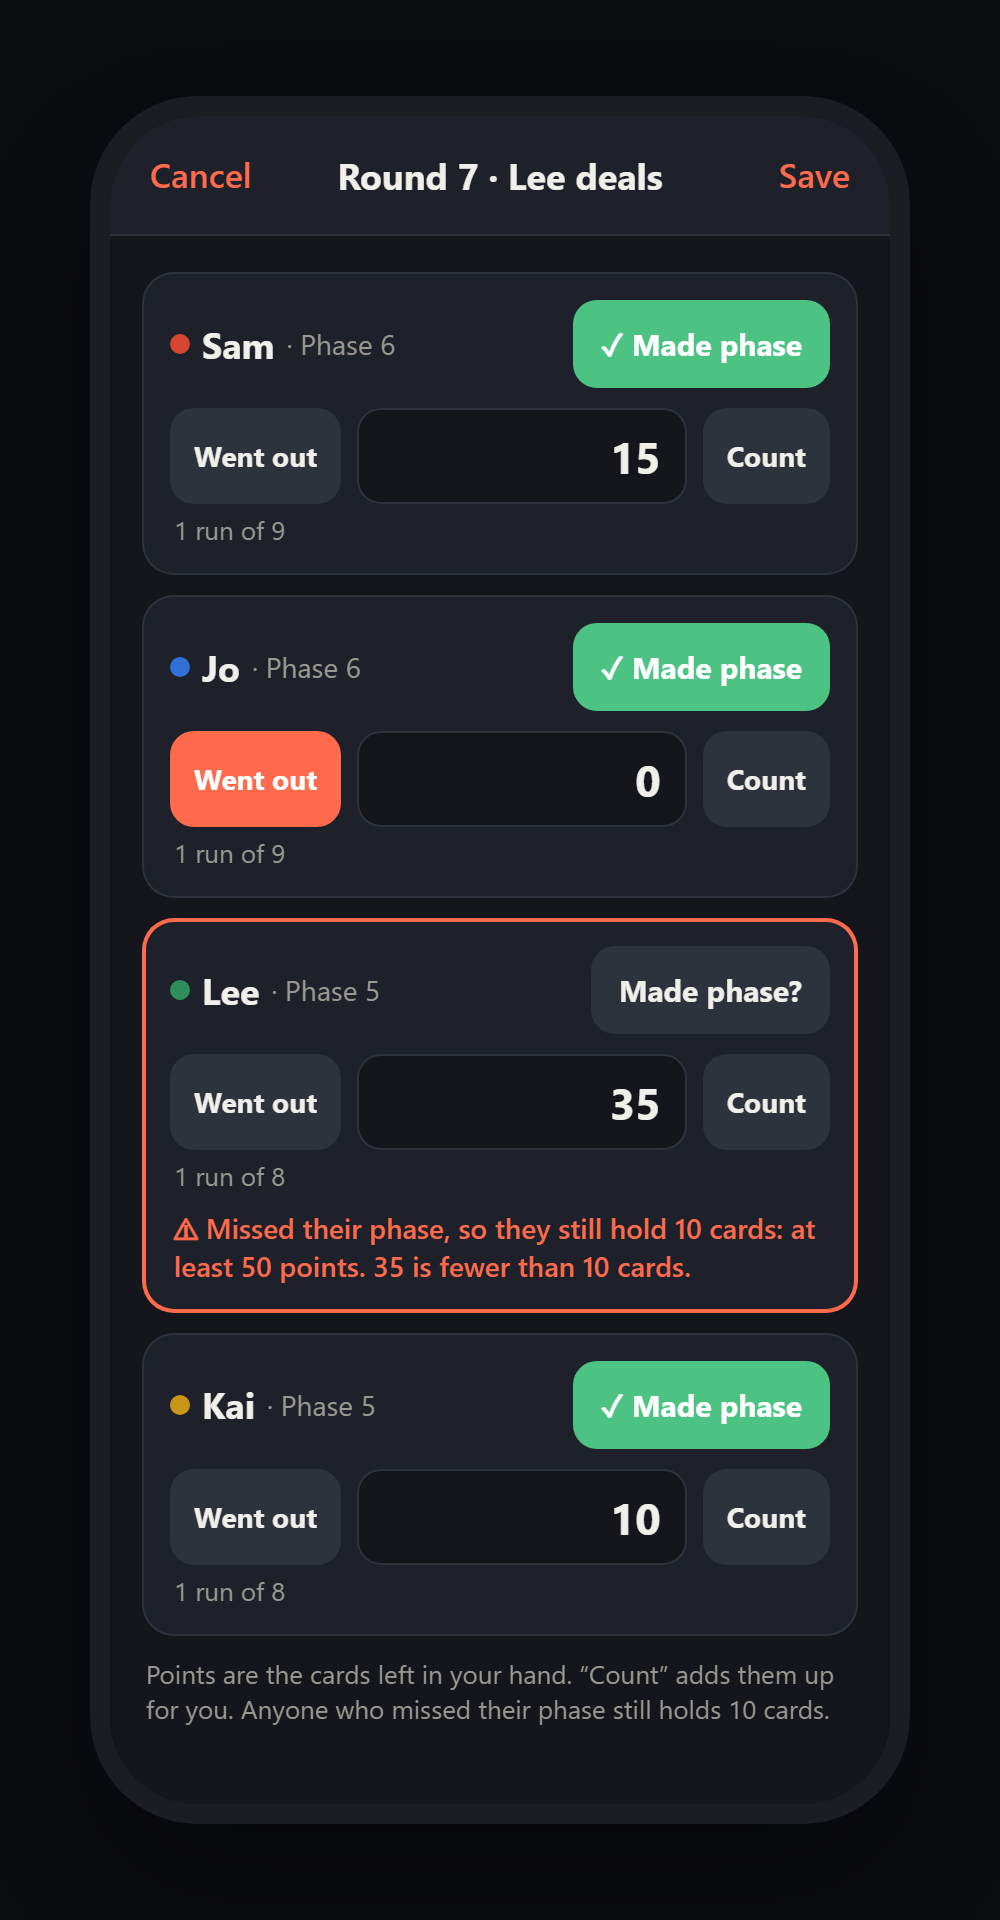
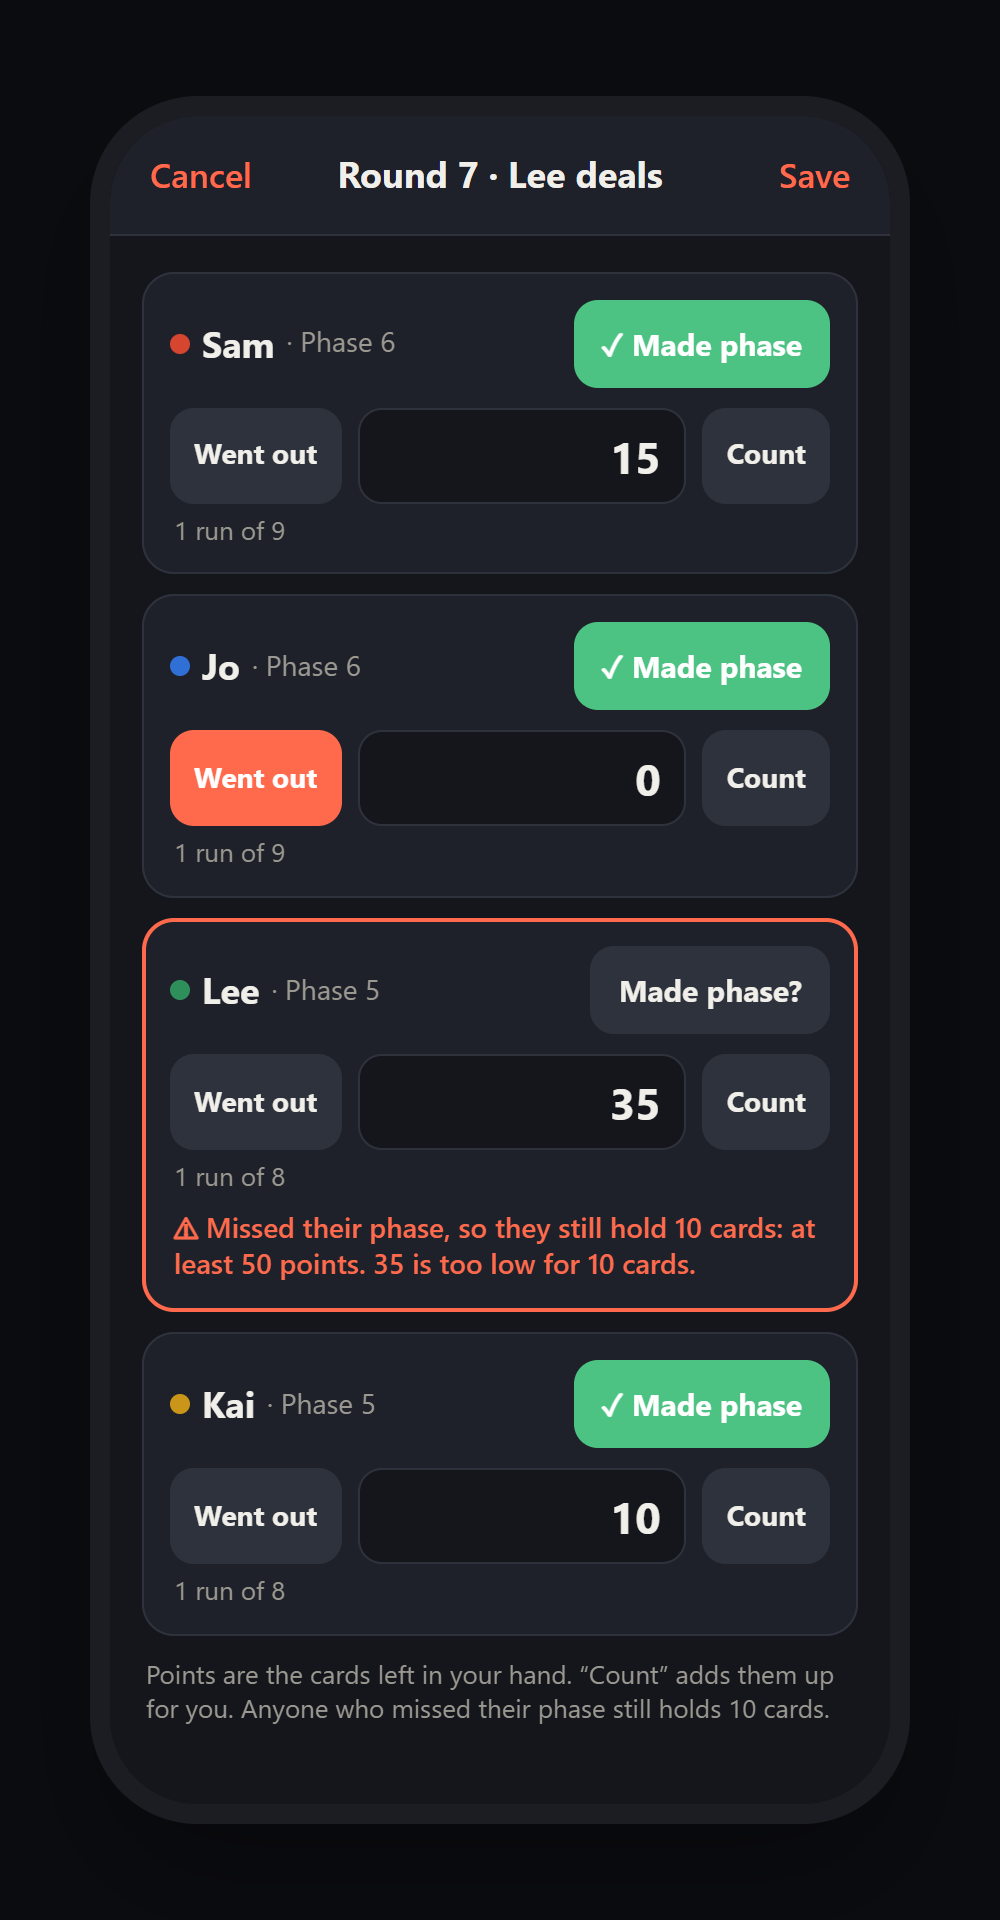
Link previews and clearer missed-phase wording (v16)
- Link-preview tags (description, Open Graph, Twitter card) and a
  1200x630 og-image.png, so a pasted link shows a picture and a summary
  on Reddit, Mastodon, Bluesky, Facebook and in chat apps.
- The missed-phase warning now says "35 is too low for 10 cards" instead
  of comparing points with cards. README picture updated to match.
- sw.js unchanged, so installed apps get this only through Update now.

diff --git a/index.html b/index.html
@@ -4,6 +4,18 @@
 <meta charset="utf-8">
 <meta name="viewport" content="width=device-width, initial-scale=1, maximum-scale=1, user-scalable=no, viewport-fit=cover">
 <title>Phase 10 Scorekeeper</title>
+<!-- what a pasted link shows on Reddit, Mastodon, Bluesky, Facebook and in chat apps -->
+<meta name="description" content="Free, offline score sheet for the card game Phase 10. Phones, tablets and computers. No account, no ads. Fan-made, not affiliated with Mattel.">
+<meta property="og:type" content="website">
+<meta property="og:site_name" content="NXLX.Systems">
+<meta property="og:title" content="Phase 10 Scorekeeper">
+<meta property="og:description" content="Free, offline score sheet for the card game Phase 10. Phones, tablets and computers. No account, no ads. Fan-made, not affiliated with Mattel.">
+<meta property="og:url" content="https://nxlx-systems.github.io/nxlx-phase-scorekeeper/">
+<meta property="og:image" content="https://nxlx-systems.github.io/nxlx-phase-scorekeeper/og-image.png">
+<meta property="og:image:width" content="1200">
+<meta property="og:image:height" content="630">
+<meta property="og:image:alt" content="The Phase 10 Scorekeeper scoreboard on a phone, next to the app's name.">
+<meta name="twitter:card" content="summary_large_image">
 <meta name="apple-mobile-web-app-capable" content="yes">
 <meta name="mobile-web-app-capable" content="yes">
 <meta name="apple-mobile-web-app-status-bar-style" content="black-translucent">
@@ -240,7 +252,7 @@ const COLORS = ["var(--p1)","var(--p2)","var(--p3)","var(--p4)","var(--p5)","var
 // colours list, so seat 1 gets colour 1 and so on, exactly as before.
 const colorOf = (g, i) => COLORS[((g.colors && g.colors[i] != null) ? g.colors[i] : i) % 6];
 const KEY = "phase10.v1";          // where scores live; never changes between app versions
-const APP_VERSION = 15;
+const APP_VERSION = 16;
 const LINKS = {
   support: "https://nxlx.gumroad.com/l/phase-ten-scorekeeper",
   shop: "https://nxlx.gumroad.com",
@@ -412,7 +424,7 @@ function handProblem(i){
   const raw = draft.pts[i], n = parseInt(raw, 10) || 0;
   if (!draft.made[i]) {
     if (raw === "") return `Missed their phase, so they still hold 10 cards. Enter their points (at least ${MIN_MISSED}).`;
-    if (n < MIN_MISSED) return `Missed their phase, so they still hold 10 cards: at least ${MIN_MISSED} points. ${n} is fewer than 10 cards.`;
+    if (n < MIN_MISSED) return `Missed their phase, so they still hold 10 cards: at least ${MIN_MISSED} points. ${n} is too low for 10 cards.`;
   }
   // A blank would be saved as 0, which reads as "went out". Make it a choice, not an accident.
   if (raw === "") return `No points entered. Enter the cards left in their hand, or tap Went out if they have none.`;
